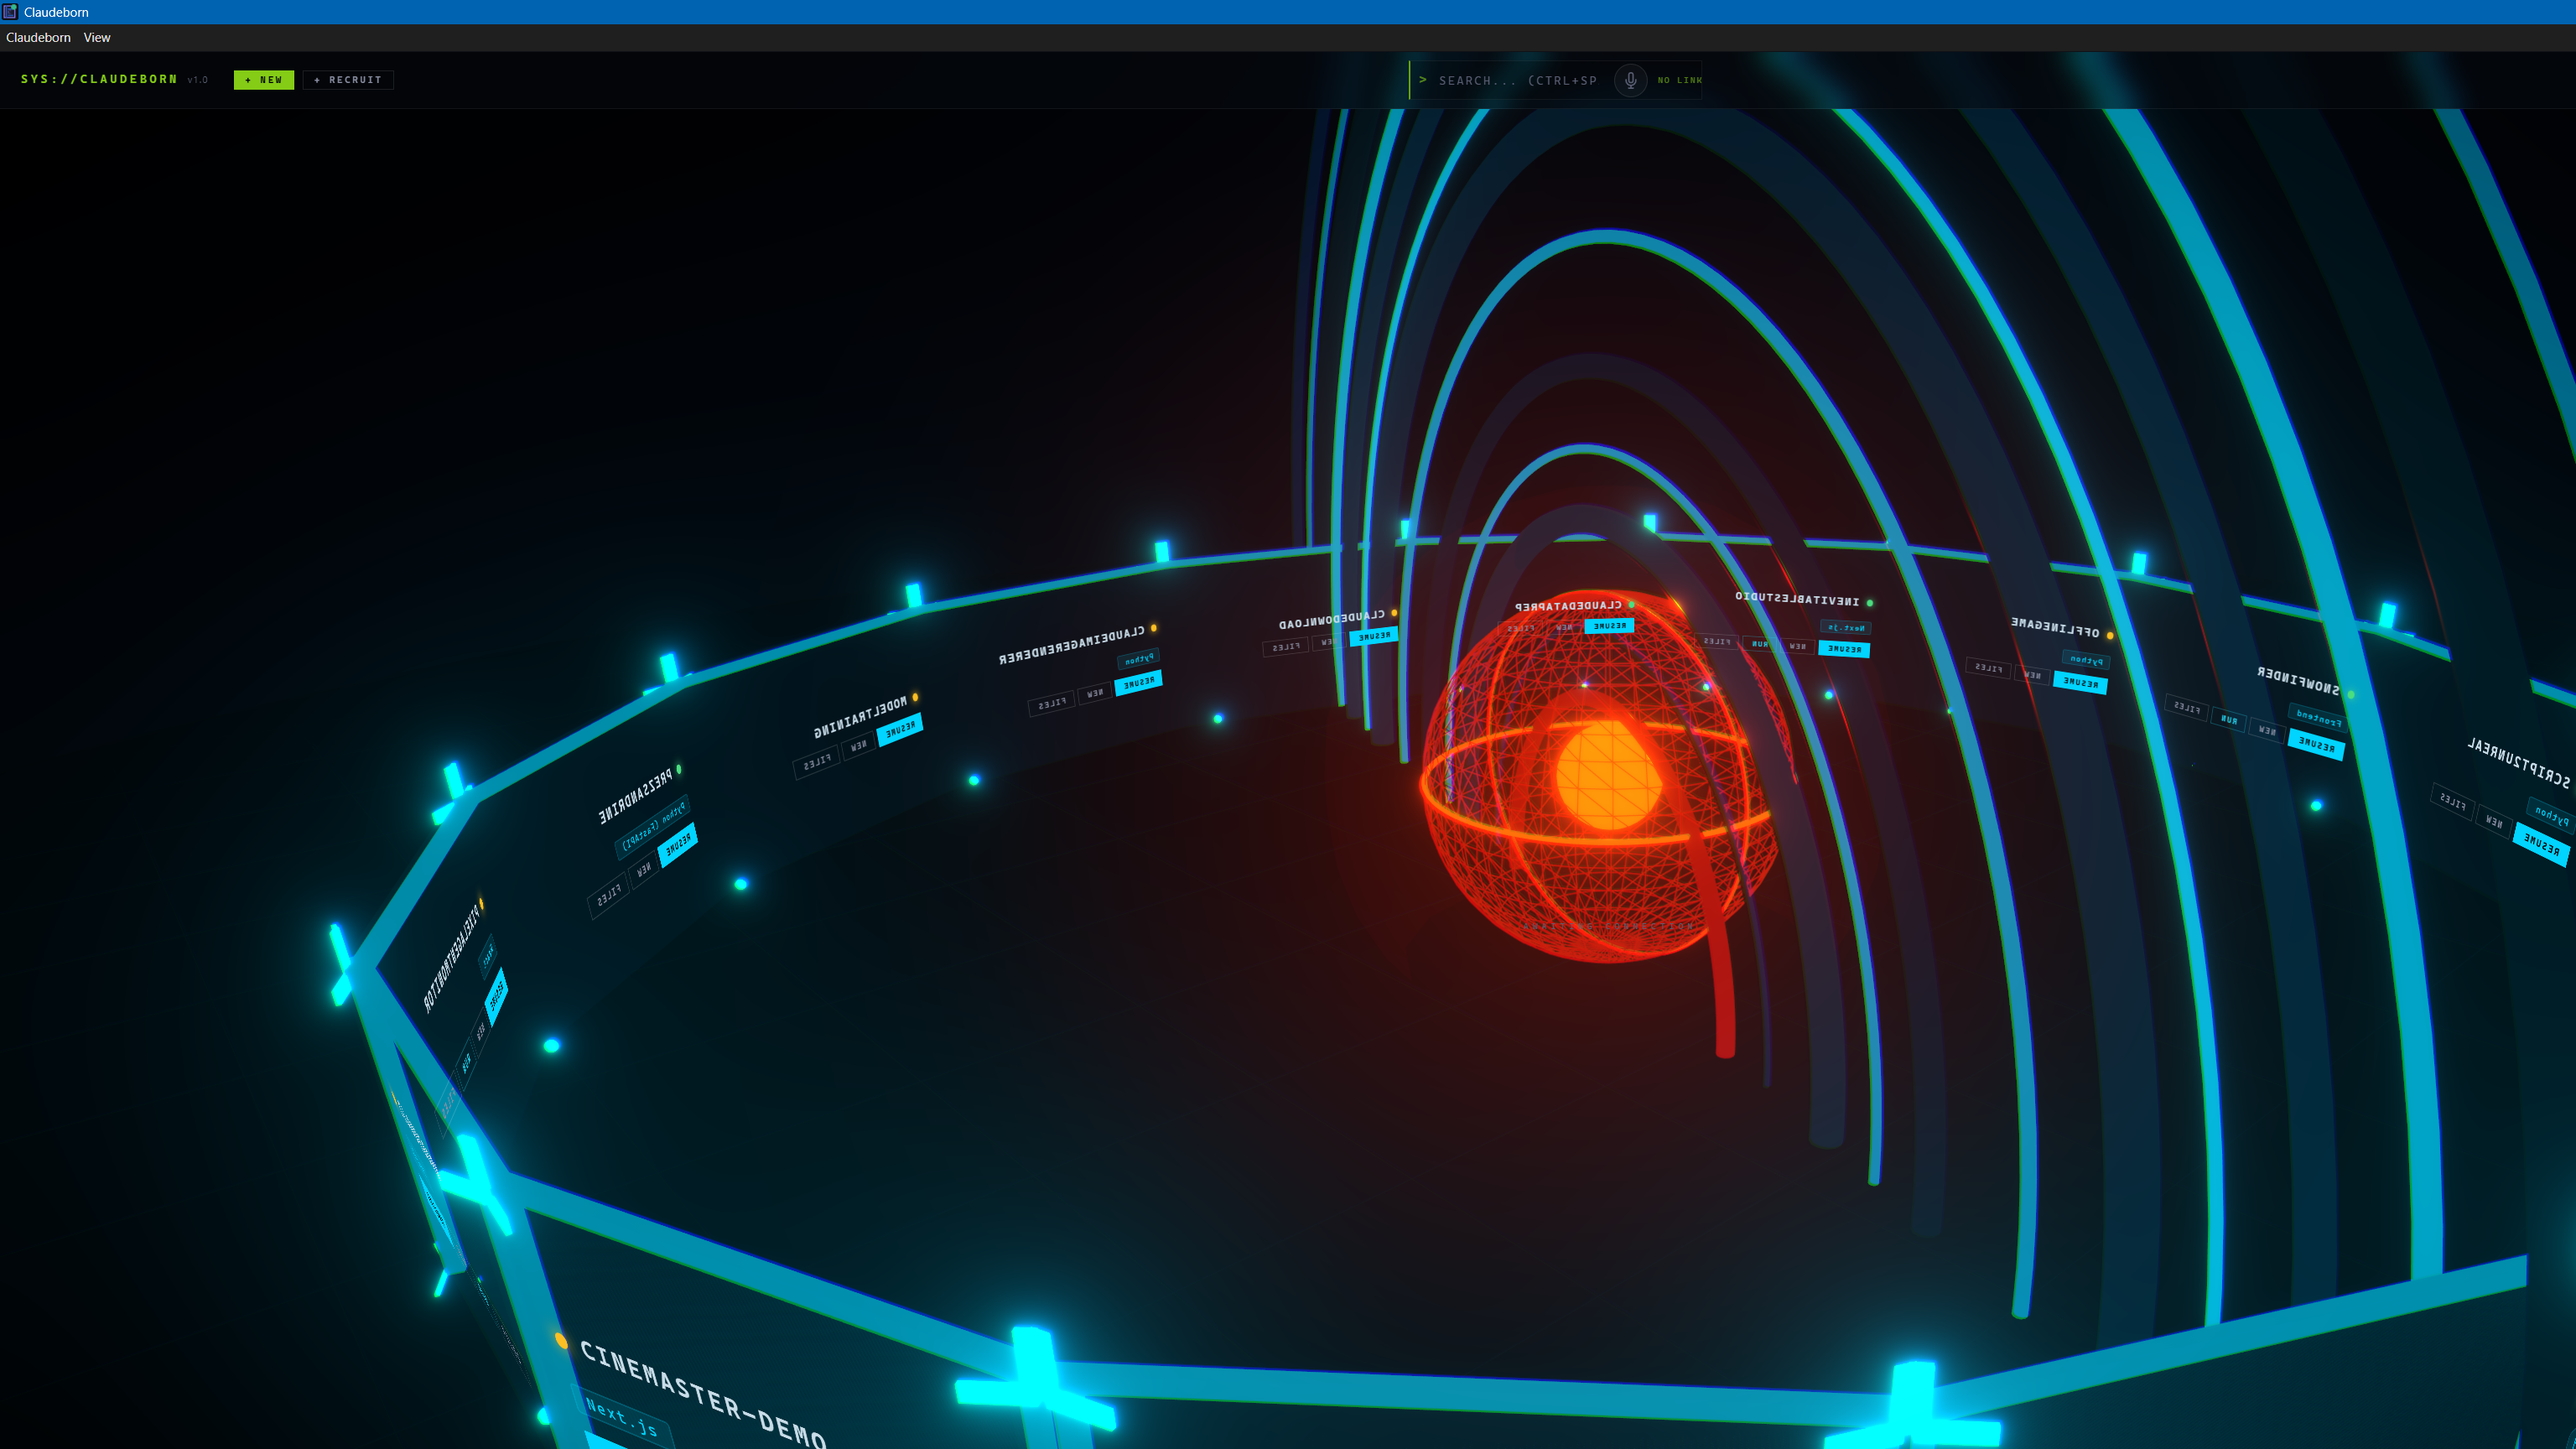
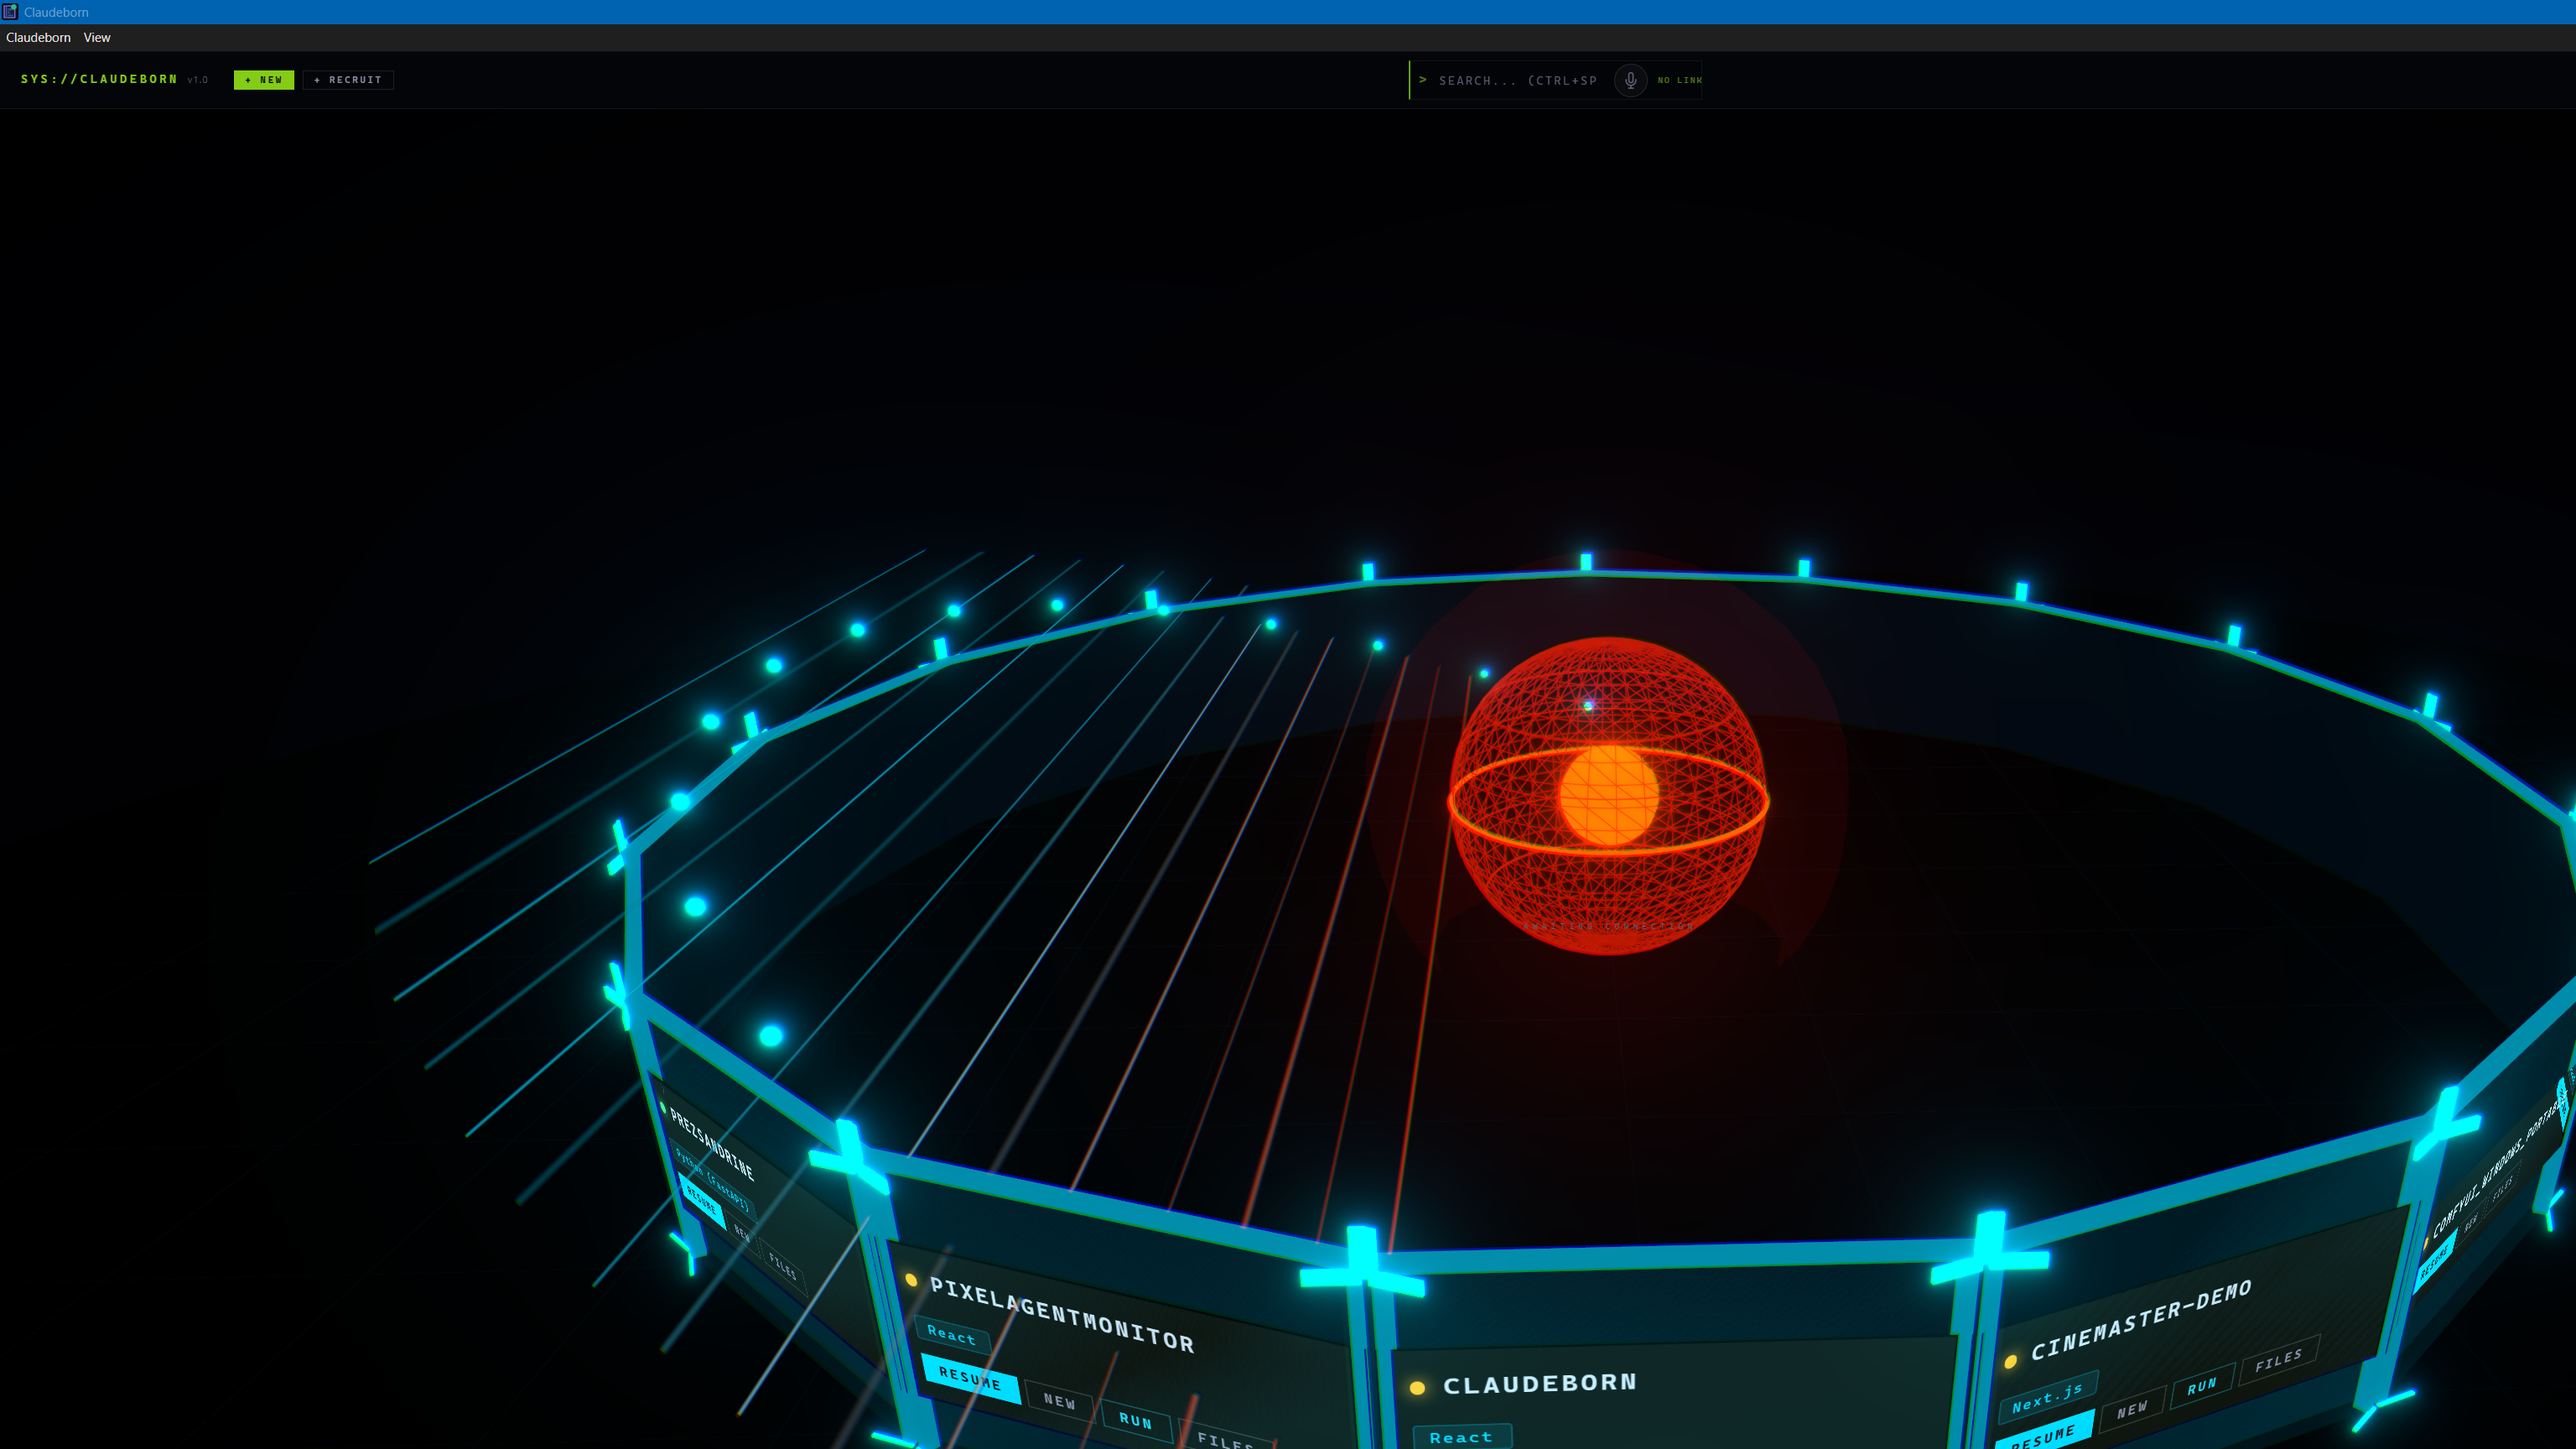
fix: PBR holo - flat shader rings, removed torus wall, thinner camera
- Replaced 3D torus ring tubes with flat shader disc drawing concentric lines
- Lines are red near center, cyan at edges (color gradient in shader)
- No more "wall" effect from thick 3D tubes on the back side
- Added latitude rings on sphere for globe detail
- Removed problematic meridian torus
- Added dim band rings between bright lines for surface fill
- Camera raised to [0,12,14] for better top-down view
- Reduced bloom intensity to prevent washing out detail
- Platform disc nearly invisible — only ring lines glow through

diff --git a/src/renderer/src/components/three/PbrHoloScene.tsx b/src/renderer/src/components/three/PbrHoloScene.tsx
@@ -81,49 +81,104 @@ function PbrRingPlatform() {
   })
 
   const ringDefs = [
-    // Inner — red zone near sphere
-    { r: 1.8, tube: 0.06, color: '#220000', emissive: '#ff1100', ei: 0.4 },
-    { r: 2.3, tube: 0.02, color: '#001a2e', emissive: '#003366', ei: 0.3 },
-    // Middle — transition to cyan
-    { r: 3.0, tube: 0.1, color: '#001522', emissive: '#004466', ei: 0.2 },
-    { r: 3.5, tube: 0.03, color: '#003355', emissive: '#00aadd', ei: 0.6 },
-    { r: 4.0, tube: 0.08, color: '#001222', emissive: '#003355', ei: 0.15 },
-    // Outer — bright cyan where screens sit
-    { r: 4.8, tube: 0.04, color: '#004466', emissive: '#00bbee', ei: 0.5 },
-    { r: 5.5, tube: 0.12, color: '#001a33', emissive: '#004466', ei: 0.2 },
-    { r: 6.0, tube: 0.03, color: '#005577', emissive: '#00d4ff', ei: 0.6 },
-    { r: 6.5, tube: 0.08, color: '#001a2e', emissive: '#004466', ei: 0.25 },
-    { r: 7.0, tube: 0.05, color: '#006688', emissive: '#00d4ff', ei: 0.5 },
-    // Outermost — platform edge
-    { r: 7.5, tube: 0.1, color: '#001122', emissive: '#003344', ei: 0.15 },
-    { r: 8.0, tube: 0.03, color: '#005577', emissive: '#00aadd', ei: 0.4 },
-    { r: 8.5, tube: 0.06, color: '#001a2e', emissive: '#003366', ei: 0.2 },
+    // Inner — red zone (thin, etched into surface)
+    { r: 1.5, tube: 0.03, color: '#220000', emissive: '#ff2200', ei: 1.0 },
+    { r: 1.9, tube: 0.015, color: '#110000', emissive: '#ff1100', ei: 0.6 },
+    { r: 2.3, tube: 0.05, color: '#110808', emissive: '#991100', ei: 0.4 },
+    { r: 2.7, tube: 0.02, color: '#110000', emissive: '#cc1100', ei: 0.5 },
+    // Middle — transition zone
+    { r: 3.2, tube: 0.025, color: '#001a2e', emissive: '#006699', ei: 0.8 },
+    { r: 3.6, tube: 0.06, color: '#001222', emissive: '#003355', ei: 0.3 },
+    { r: 4.0, tube: 0.02, color: '#003355', emissive: '#00bbee', ei: 1.0 },
+    { r: 4.4, tube: 0.04, color: '#001522', emissive: '#004466', ei: 0.35 },
+    { r: 4.8, tube: 0.015, color: '#004466', emissive: '#00ccee', ei: 0.7 },
+    // Outer — screen zone
+    { r: 5.3, tube: 0.05, color: '#001a33', emissive: '#004466', ei: 0.3 },
+    { r: 5.7, tube: 0.02, color: '#005577', emissive: '#00d4ff', ei: 1.0 },
+    { r: 6.1, tube: 0.04, color: '#001a2e', emissive: '#004466', ei: 0.35 },
+    { r: 6.5, tube: 0.025, color: '#006688', emissive: '#00d4ff', ei: 0.9 },
+    // Edge rings
+    { r: 6.9, tube: 0.05, color: '#001122', emissive: '#003355', ei: 0.25 },
+    { r: 7.3, tube: 0.02, color: '#005577', emissive: '#00ccdd', ei: 0.7 },
+    { r: 7.7, tube: 0.03, color: '#001a2e', emissive: '#003355', ei: 0.3 },
   ]
 
   return (
-    <group ref={groupRef} position={[0, 0, 0]}>
-      {ringDefs.map((rd, i) => (
-        <mesh key={i} position={[0, rd.tube / 2, 0]}>
-          <torusGeometry args={[rd.r, rd.tube, 12, 128]} />
-          <meshStandardMaterial
-            color={rd.color}
-            emissive={rd.emissive}
-            emissiveIntensity={rd.ei}
-            metalness={0.9}
-            roughness={0.15}
-            toneMapped={false}
-          />
-        </mesh>
-      ))}
+    <group ref={groupRef} position={[0, 0, 0]} rotation={[-Math.PI / 2, 0, 0]}>
+      {/* Torus rings removed — shader disc handles all ring visuals */}
 
       {/* Bright marker dots */}
+      {/* Platform disc with ETCHED ring lines via shader */}
+      <mesh position={[0, 0, 0.01]}>
+        <ringGeometry args={[1.0, 8.5, 128]} />
+        <shaderMaterial
+          transparent
+          side={THREE.DoubleSide}
+          depthWrite={false}
+          vertexShader={`
+            varying vec2 vUv;
+            varying float vDist;
+            void main() {
+              vUv = uv;
+              vec4 wp = modelMatrix * vec4(position, 1.0);
+              vDist = length(wp.xy);
+              gl_Position = projectionMatrix * viewMatrix * wp;
+            }
+          `}
+          fragmentShader={`
+            varying vec2 vUv;
+            varying float vDist;
+
+            void main() {
+              // Dark base
+              vec3 base = vec3(0.015, 0.02, 0.025);
+
+              // Concentric ring lines at specific radii
+              float line = 0.0;
+
+              // Inner red rings
+              line += smoothstep(0.02, 0.0, abs(vDist - 1.5)) * 0.8;
+              line += smoothstep(0.015, 0.0, abs(vDist - 1.9)) * 0.5;
+              line += smoothstep(0.03, 0.0, abs(vDist - 2.3)) * 0.6;
+              line += smoothstep(0.015, 0.0, abs(vDist - 2.7)) * 0.4;
+
+              // Transition rings
+              line += smoothstep(0.02, 0.0, abs(vDist - 3.2)) * 0.7;
+              line += smoothstep(0.04, 0.0, abs(vDist - 3.6)) * 0.3;
+              line += smoothstep(0.015, 0.0, abs(vDist - 4.0)) * 0.9;
+              line += smoothstep(0.03, 0.0, abs(vDist - 4.4)) * 0.4;
+              line += smoothstep(0.015, 0.0, abs(vDist - 4.8)) * 0.6;
+
+              // Outer rings
+              line += smoothstep(0.035, 0.0, abs(vDist - 5.3)) * 0.3;
+              line += smoothstep(0.015, 0.0, abs(vDist - 5.7)) * 0.8;
+              line += smoothstep(0.025, 0.0, abs(vDist - 6.1)) * 0.4;
+              line += smoothstep(0.02, 0.0, abs(vDist - 6.5)) * 0.7;
+              line += smoothstep(0.04, 0.0, abs(vDist - 6.9)) * 0.3;
+              line += smoothstep(0.015, 0.0, abs(vDist - 7.3)) * 0.6;
+
+              // Color: red near center, cyan at edges
+              float t = smoothstep(1.5, 5.0, vDist);
+              vec3 innerColor = vec3(1.0, 0.1, 0.0);
+              vec3 outerColor = vec3(0.0, 0.7, 1.0);
+              vec3 lineColor = mix(innerColor, outerColor, t);
+
+              vec3 color = lineColor * line * 0.8;
+              float alpha = line * 0.8;
+
+              gl_FragColor = vec4(color, alpha);
+            }
+          `}
+        />
+      </mesh>
+
       {Array.from({ length: 32 }, (_, i) => {
         const a = (i / 32) * Math.PI * 2
         const r = 7.0
         return (
-          <mesh key={`dot-${i}`} position={[Math.cos(a) * r, 0.03, Math.sin(a) * r]}>
-            <sphereGeometry args={[0.04, 8, 8]} />
-            <meshStandardMaterial emissive="#00d4ff" emissiveIntensity={2} toneMapped={false} />
+          <mesh key={`dot-${i}`} position={[Math.cos(a) * r, Math.sin(a) * r, -0.03]}>
+            <sphereGeometry args={[0.05, 8, 8]} />
+            <meshStandardMaterial emissive="#00d4ff" emissiveIntensity={3} toneMapped={false} color="#003355" metalness={1} roughness={0} />
           </mesh>
         )
       })}
@@ -193,11 +248,13 @@ function PbrHalSphere() {
         <meshStandardMaterial emissive="#ff4400" emissiveIntensity={2} toneMapped={false} metalness={1} roughness={0} />
       </mesh>
 
-      {/* Meridian */}
-      <mesh>
-        <torusGeometry args={[1.3, 0.012, 8, 128]} />
-        <meshStandardMaterial emissive="#ff3300" emissiveIntensity={1.5} toneMapped={false} metalness={1} roughness={0} />
-      </mesh>
+      {/* Latitude rings for globe detail */}
+      {[0.4, 0.8, -0.4, -0.8].map((y, i) => (
+        <mesh key={`lat-${i}`} position={[0, y, 0]} rotation={[Math.PI / 2, 0, 0]}>
+          <torusGeometry args={[Math.sqrt(1.3 * 1.3 - y * y), 0.006, 6, 64]} />
+          <meshStandardMaterial emissive="#ff2200" emissiveIntensity={0.5} toneMapped={false} metalness={1} roughness={0} />
+        </mesh>
+      ))}
 
       {/* Red atmospheric glow — subtle, smaller */}
       <mesh>
@@ -217,7 +274,7 @@ function PostFX() {
   const offset = useMemo(() => new Vector2(0.0006, 0.0006), [])
   return (
     <EffectComposer>
-      <Bloom luminanceThreshold={0.15} luminanceSmoothing={0.7} intensity={2.8} radius={0.85} mipmapBlur />
+      <Bloom luminanceThreshold={0.3} luminanceSmoothing={0.8} intensity={1.8} radius={0.7} mipmapBlur />
       <ChromaticAberration blendFunction={BlendFunction.NORMAL} offset={offset} />
       <Vignette darkness={0.6} offset={0.3} />
     </EffectComposer>
@@ -277,7 +334,7 @@ export function PbrHoloScene({ projects, listening, isFullySetup, onOpenTerminal
   return (
     <Canvas
       style={{ position: 'absolute', inset: 0, zIndex: 0 }}
-      camera={{ position: [0, 5, 11], fov: 55, near: 0.1, far: 1000 }}
+      camera={{ position: [0, 12, 14], fov: 42, near: 0.1, far: 1000 }}
       gl={{ antialias: true, alpha: true, powerPreference: 'high-performance' }}
       dpr={[1, 2]}
       shadows

diff --git a/src/renderer/src/components/three/ScreenPanel.tsx b/src/renderer/src/components/three/ScreenPanel.tsx
@@ -136,8 +136,10 @@ export function ScreenPanel({
       {/* ── HTML content ── */}
       <Html
         transform
+        occlude="blending"
         distanceFactor={4}
         position={[0, 0, depth / 2 + 0.01]}
+        zIndexRange={[10, 0]}
         style={{
           width: '260px',
           padding: '12px 14px',
